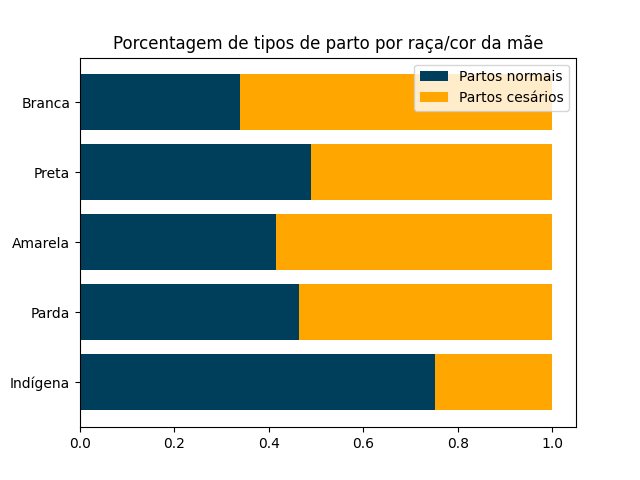
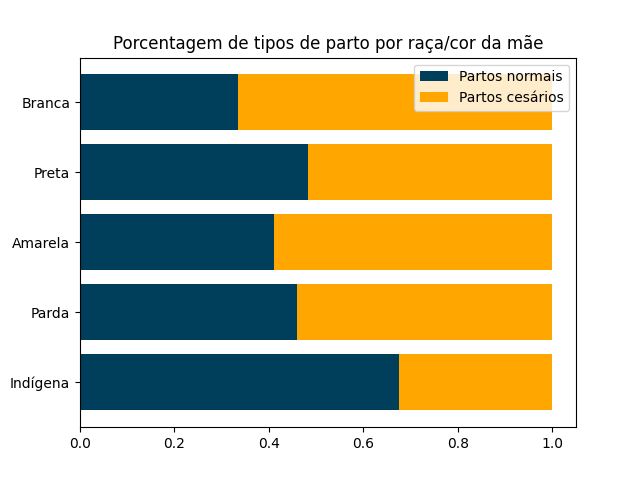
Adicione os arquivos make_images.py e __init__.py

Changed region(s): [[0.625, 0.7188, 0.6875, 0.875], [0.4688, 0.3125, 0.5, 0.4062]]

diff --git a/modules/analysis/yure/make_images.py b/modules/analysis/yure/make_images.py
@@ -1,0 +1,25 @@
+import analysis, visualization
+import sys
+
+sys.path.append('../../..')
+
+dados_csv = 'data/dados.csv'
+
+dados = analysis.dados_racacormae_consprenat(dados_csv)
+medias = dados['NUMCONSULTAS'] / dados['NUMREGISTROS']
+media_nacional = dados['NUMCONSULTAS'].sum() / dados['NUMREGISTROS'].sum()
+visualization.plot_bar_chart_with_hline(values=medias, labels=['Branca', 'Preta', 'Amarela', 'Parda', 'Indígena'],
+    bottom = 5, title='Média de consultas de pré-natal por raça/cor da mãe', x_label='', y_label='Média de consultas',
+    line_y=media_nacional, line_label='Média nacional', path_output='images/imagem1.png')
+
+dados = analysis.dados_racacormae_locnasc(dados_csv)
+locnasc_indigenas = dados.loc[5]['NUMREGISTROS']
+visualization.plot_pie_chart(data=locnasc_indigenas, colors=['#003f5c', '#58508d', '#bc5090', '#ff6361', '#ffa600'],
+    labels=['Hospital', 'Outros estab. de saúde', 'Domicílio', 'Outros', 'Aldeia Indígena'], start_angle=30,
+    title='Local de nascimento de bebês de mães indígenas', legend_title='Local de nascimento',
+    loc='center left', bbox_to_anchor=(1, 0, 0.5, 1), path_output='images/imagem2.png')
+
+dados = analysis.dados_racacormae_parto(dados_csv)
+visualization.plot_stacked_percentage_hbar(data=dados, labels_bars=['Branca', 'Preta', 'Amarela', 'Parda', 'Indígena'],
+    column_1='QTDPARTNOR', column_2='QTDPARTCES', label_subbar_1='Partos normais', label_subbar_2='Partos cesários',
+    title='Porcentagem de tipos de parto por raça/cor da mãe', path_output='images/imagem3.png')
